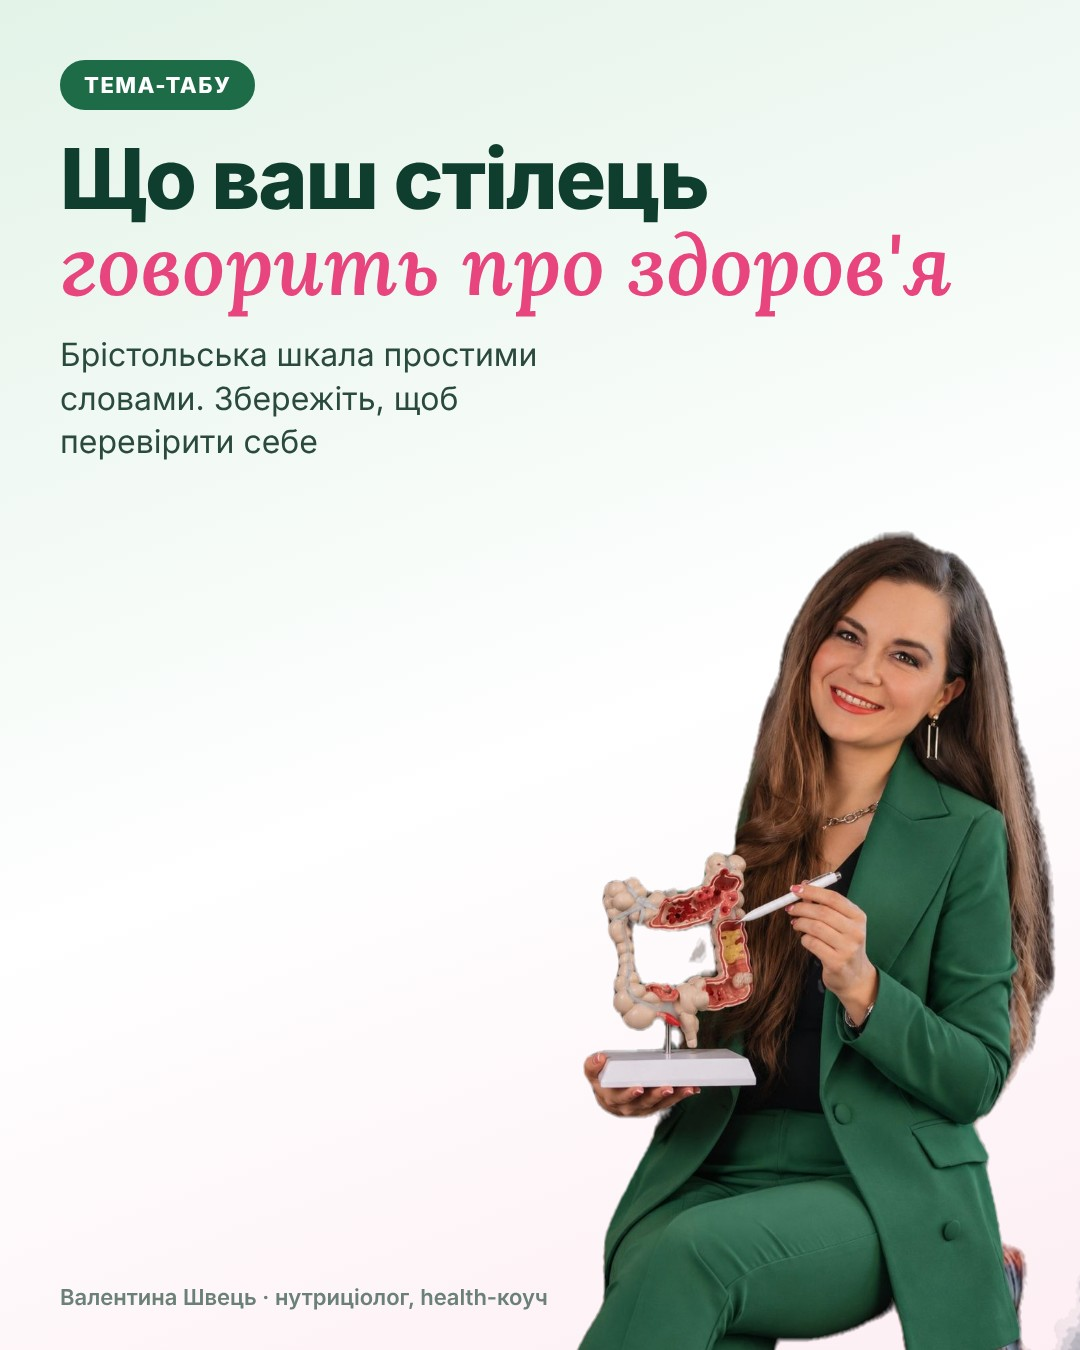
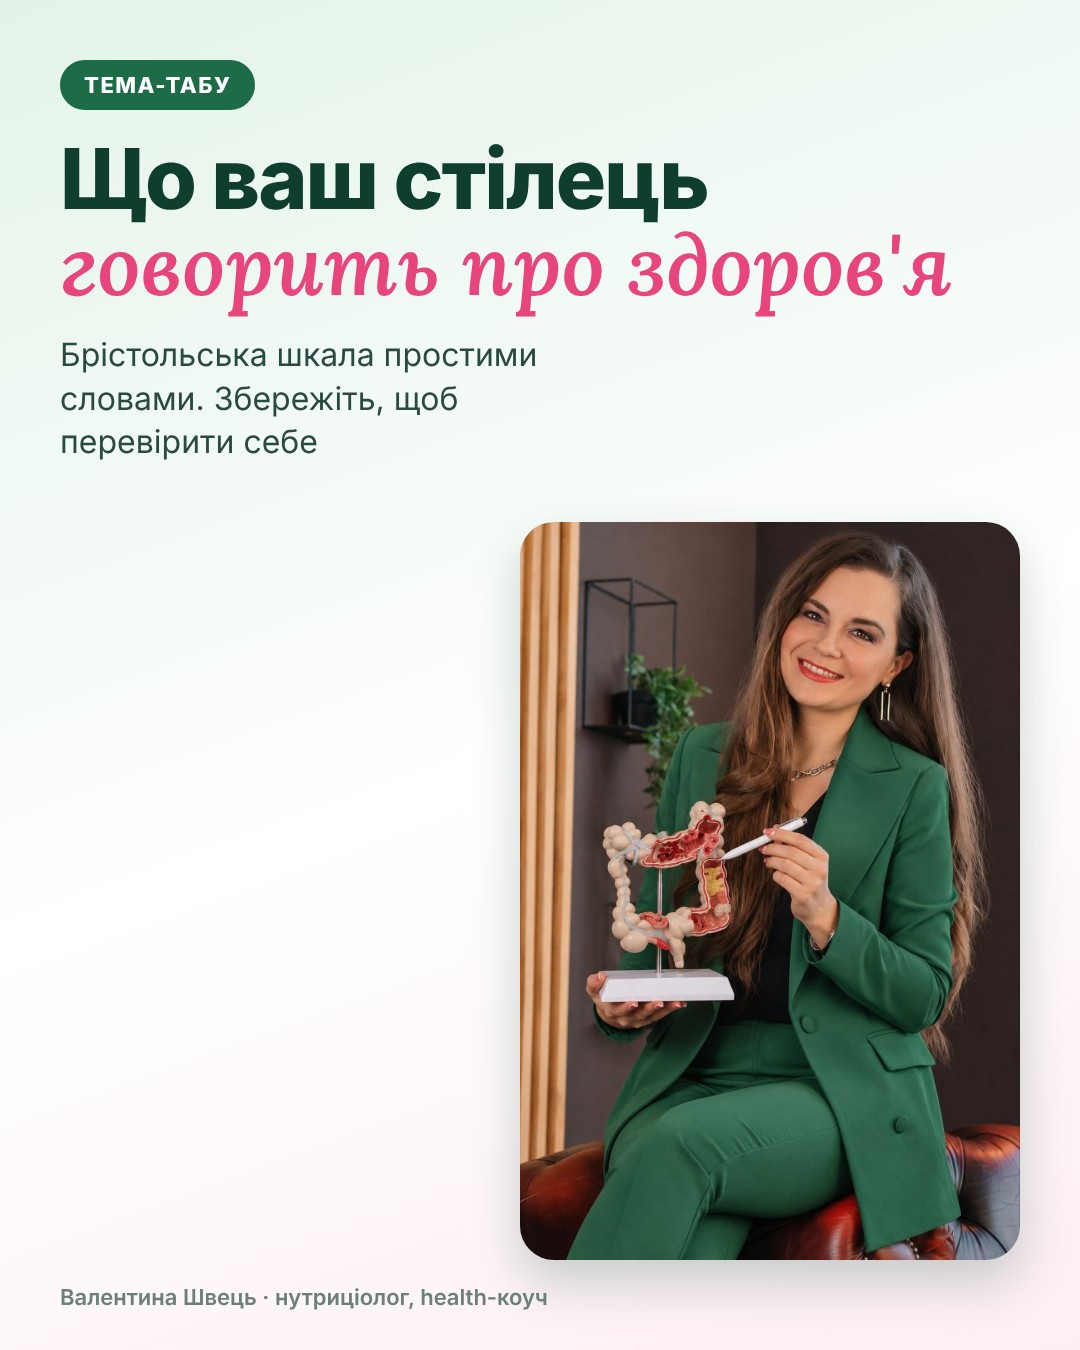
Каруселі: фото, де Валентина сидить, цілим у рамці; дослати виправлену k6
Claude-Session: https://claude.ai/code/session_01P95tyL1PPecuZWfpcGvJVw

Changed region(s): [[0.4583, 0.3733, 0.9778, 1.0], [0.9778, 0.9644, 1.0, 1.0]]

diff --git a/tools/posts2/build.py b/tools/posts2/build.py
@@ -38,8 +38,9 @@ def doc(body, cls=""):
 
 def cover(tag, title, sub, img, pos="center"):
     if img in ("val1.jpg", "val2.jpg"):
-        cut = img.replace(".jpg", "_cut.png")
-        return doc(f"""<img src="{cut}" style="position:absolute;right:-10px;bottom:0;height:820px">
+        # 18.11: val1 вирізана з фону; val2 (сидить) цілим фото в рамці, без обрізання (вирізання з'їдало частину руки)
+        cut = '<img src="val1_cut.png" style="position:absolute;right:-10px;bottom:0;height:820px">' if img == "val1.jpg" else '<div class="ph" style="right:60px;bottom:90px;width:500px;height:738px"><img src="val2.jpg"></div>'
+        return doc(f"""{cut}
 <div style="position:absolute;left:60px;right:60px;top:60px;display:flex;flex-direction:column;gap:26px">
 <div><span class="tag f">{tag}</span></div><h1>{title}</h1><div class="sub" style="width:480px">{sub}</div></div>
 <div class="foot">{NAME}</div>""")
@@ -72,7 +73,7 @@ def cta(n, total, tag, title, text, word, after, img):
 <div style="position:absolute;left:60px;top:800px;font-size:30px;color:#e3f3e8">Напишіть у коментарях слово</div>
 <div style="position:absolute;left:60px;top:860px"><span class="word">{word}</span></div>
 <div style="position:absolute;left:60px;top:1010px;font-size:30px;color:#e3f3e8">{after} ❤</div>
-<img src="{img.replace('.jpg', '_cut.png')}" style="position:absolute;right:-30px;bottom:0;height:780px">
+{'<img src="val1_cut.png" style="position:absolute;right:-30px;bottom:0;height:780px">' if img == "val1.jpg" else '<div class="ph" style="right:50px;top:330px;width:420px;height:620px"><img src="val2.jpg"></div>'}
 
 <div class="disc">Інформація має ознайомчий характер і не замінює консультації спеціаліста</div>""", "cta")
 

diff --git a/instaposts.py b/instaposts.py
@@ -161,3 +161,19 @@ async def fix_k2_job(context):
             await context.bot.send_message(a, cap)
         except Exception as e:
             log.warning("instapost fix k2 %s: %s", a, e)
+
+
+async def fix_k6_job(context):
+    """18.11: якщо k6 уже пішла зі старим вирізаним фото (де сидить), один раз дослати виправлену (kv ip_k6fix)."""
+    if db.flag_get("ip_k6fix") == "1" or datetime.now(TZ).strftime("%Y-%m-%d") != "2026-11-18":
+        return
+    db.flag_set("ip_k6fix", "1")
+    if db.flag_get("ip:k6") != "1":
+        return  # ще не надсилали: звичайний job надішле вже нову версію
+    key, _, title, cap = POSTS[5]
+    for a in C.ADMIN_IDS:
+        try:
+            await context.bot.send_message(a, "🔄 <b>Виправлена версія сьогоднішньої каруселі</b>: фото на обкладинці тепер ціле. Публікуйте, будь ласка, цю 😉", parse_mode="HTML")
+        except Exception as e:
+            log.warning("instapost fix k6 %s: %s", a, e)
+    await _to_admins(context.bot, key, title, cap)

diff --git a/changelog.py b/changelog.py
@@ -10,10 +10,10 @@ import db
 
 log = logging.getLogger("changelog")
 
-VERSION = "2026-11-18-3"
+VERSION = "2026-11-18-4"
 NOTES = [
     "Каруселі на 19-29 листопада перезібрано за «Стратегом»: у кожній новий слайд «Ви думаєте» з сумнівом читачки її словами і спокійною відповіддю, з фото Валентини",
-    "Фото Валентини в каруселях тепер вирізані з фону і стоять повністю, без обрізаної рамки",
+    "Фото Валентини в каруселях стоять повністю: де вона стоїть, вирізана з фону; де сидить, ціле фото в рамці",
     "Карусель про висипання приходить сьогодні (18.11), решта за розкладом о 9:00",
     "В описах до каруселей додано абзац з цим сумнівом і відповіддю, далі одна дія: слово в коментарях",
 ]

diff --git a/bot.py b/bot.py
@@ -607,6 +607,7 @@ def main():
     app.job_queue.run_once(__import__("instaposts").intro_job, when=60)  # 14.11: каруселі для Instagram, перша одразу
     app.job_queue.run_repeating(__import__("instaposts").job, interval=300, first=200)  # 14.11: щодня о 9:00 до 18.11
     app.job_queue.run_once(__import__("instaposts").fix_k2_job, when=90)  # 15.11: дослати опис до каруселі k2
+    app.job_queue.run_once(__import__("instaposts").fix_k6_job, when=30)  # 18.11: виправлене фото в k6, якщо стара вже пішла
     app.job_queue.run_repeating(__import__("dozhim").job, interval=300, first=180)  # 13.11: дожими інтенсиву (dozhim.py)
     app.job_queue.run_repeating(vidrev.followup_job, interval=300, first=240)  # 16.11: нагадування через 2 год після відео
     app.job_queue.run_repeating(crm.daily_job, interval=300, first=90)  # 10.11: звіт адмінам щоранку о 9:00
